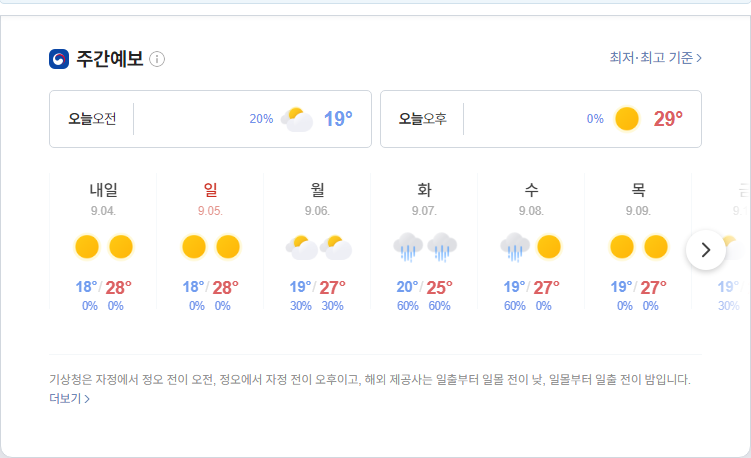
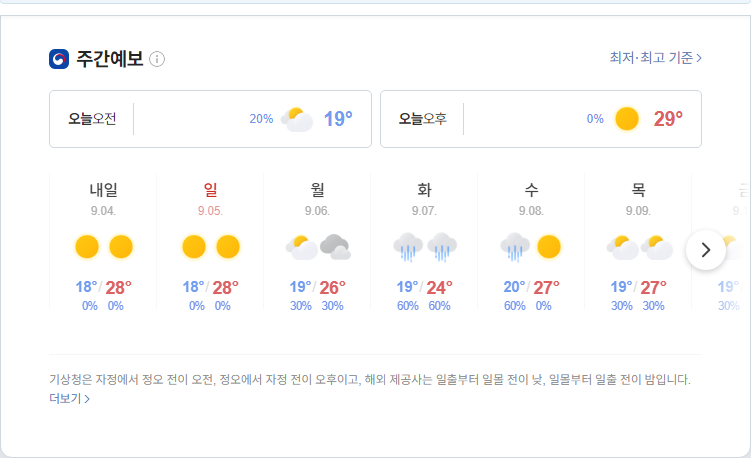
update result

diff --git a/README.md b/README.md
@@ -1,5 +1,5 @@
-##  2021-09-03 05:54:45   금요일 
-##### 날씨   -   어제보다 2° 낮아요맑음  
+##  2021-09-03 09:16:49   금요일 
+##### 날씨   -   어제와 같은 기온맑음  
 <center><img src="../img/naver_weather_week.png"></center>
 ----
 ----
@@ -23,40 +23,40 @@
 ##### 시장
 <table border="1" bordercolor="blue" align = "center" >
 <tr align = "right" > <td>Item</td><td>Price</td><td>Diff</td><td>Rate</td><td>Buy</td><td>Sell</td><td>...</td>  </tr>
-<tr align = "right" > <td>USD</td><td>1,159.0</td><td>-0.5</td><td><font size="3" color="blue">-0.04%</font></td><td><font size="3" color="black">1,110</font></td><td><font size="3" color="black">0</font></td><td>0</td>  </tr>
-<tr align = "right" > <td>WTI</td><td>68.59</td><td>0.09</td><td><font size="3" color="red">0.13%</font></td><td><font size="3" color="black">29.0</font></td><td><font size="3" color="black">0</font></td><td>0</td>  </tr>
-<tr align = "right" > <td>GOLD</td><td>1,813.0</td><td>-1.9</td><td><font size="3" color="blue">-0.1%</font></td><td><font size="3" color="black">0</font></td><td><font size="3" color="black">0</font></td><td>0</td>  </tr>
+<tr align = "right" > <td>USD</td><td>1,156.0</td><td>-2.2</td><td><font size="3" color="blue">-0.19%</font></td><td><font size="3" color="black">1,110</font></td><td><font size="3" color="black">0</font></td><td>0</td>  </tr>
+<tr align = "right" > <td>WTI</td><td>69.99</td><td>1.4</td><td><font size="3" color="red">2.04%</font></td><td><font size="3" color="black">29.0</font></td><td><font size="3" color="black">0</font></td><td>0</td>  </tr>
+<tr align = "right" > <td>GOLD</td><td>1,808.0</td><td>-4.4</td><td><font size="3" color="blue">-0.24%</font></td><td><font size="3" color="black">0</font></td><td><font size="3" color="black">0</font></td><td>0</td>  </tr>
 </table>
 ----
 ##### 주가
 <table border="1" bordercolor="blue" align = "center" >
 <tr align = "right" > <td>Item</td><td>Price</td><td>Diff</td><td>Rate</td><td>Purchased</td><td>Sell</td><td>Buy</td>  </tr>
-<tr align = "right" > <td>한국 전력</td><td>23,850</td><td>-200</td><td><font size="3" color="blue">-0.83%</font></td><td>25,720</td><td><font size="3" color="black">27,700</font></td><td><font size="3" color="black">20,700</font></td>  </tr>
-<tr align = "right" > <td>삼성엔지니어.</td><td>23,300</td><td>-450</td><td><font size="3" color="blue">-1.89%</font></td><td>18,935</td><td><font size="3" color="black">20,000</font></td><td><font size="3" color="black">8,000</font></td>  </tr>
-<tr align = "right" > <td>CJ CGV</td><td>31,350</td><td>200</td><td><font size="3" color="red">0.64%</font></td><td>34,895</td><td><font size="3" color="black">36,000</font></td><td><font size="3" color="black">0</font></td>  </tr>
-<tr align = "right" > <td>아모레퍼시픽</td><td>224,500</td><td>-3,000</td><td><font size="3" color="blue">-1.32%</font></td><td>235,350</td><td><font size="3" color="black">240,000</font></td><td><font size="3" color="black">130,000</font></td>  </tr>
-<tr align = "right" > <td>한화</td><td>35,750</td><td>900</td><td><font size="3" color="red">2.58%</font></td><td>25,550</td><td><font size="3" color="black">26,250</font></td><td><font size="3" color="black">26,250</font></td>  </tr>
-<tr align = "right" > <td>NAVER</td><td>442,500</td><td>-2,500</td><td><font size="3" color="blue">-0.56%</font></td><td>147,200</td><td><font size="3" color="black">386,000</font></td><td><font size="3" color="black">286,000</font></td>  </tr>
-<tr align = "right" > <td>LG 화학우</td><td>332,000</td><td>-1,500</td><td><font size="3" color="blue">-0.45%</font></td><td>202,490</td><td><font size="3" color="black">384,000</font></td><td><font size="3" color="orangered">384,000</font></td>  </tr>
-<tr align = "right" > <td>스튜디오드래.</td><td>86,500</td><td>-600</td><td><font size="3" color="blue">-0.69%</font></td><td>81,243</td><td><font size="3" color="black">85,200</font></td><td><font size="3" color="black">85,200</font></td>  </tr>
-<tr align = "right" > <td>QV미국IT</td><td>33,265</td><td>55</td><td><font size="3" color="red">0.17%</font></td><td>0</td><td><font size="3" color="black">30,000</font></td><td><font size="3" color="black">20,000</font></td>  </tr>
-<tr align = "right" > <td>삼성 전자우</td><td>70,300</td><td>-600</td><td><font size="3" color="blue">-0.85%</font></td><td>60,675</td><td><font size="3" color="black">76,000</font></td><td><font size="3" color="black">55,000</font></td>  </tr>
-<tr align = "right" > <td>LS</td><td>66,600</td><td>0</td><td><font size="3" color="black">0.0%</font></td><td>71,900</td><td><font size="3" color="black">82,000</font></td><td><font size="3" color="black">60,000</font></td>  </tr>
-<tr align = "right" > <td>한화에어로스.</td><td>51,700</td><td>1,300</td><td><font size="3" color="red">2.58%</font></td><td>25,700</td><td><font size="3" color="black">30,000</font></td><td><font size="3" color="black">24,000</font></td>  </tr>
-<tr align = "right" > <td>한화시스템.</td><td>19,350</td><td>100</td><td><font size="3" color="red">0.52%</font></td><td>16,875</td><td><font size="3" color="black">30,000</font></td><td><font size="3" color="black">14,000</font></td>  </tr>
-<tr align = "right" > <td>카카오</td><td>155,000</td><td>1,000</td><td><font size="3" color="red">0.65%</font></td><td>405,500</td><td><font size="3" color="black">440,000</font></td><td><font size="3" color="orangered">400,000</font></td>  </tr>
-<tr align = "right" > <td>호텔 신라</td><td>88,900</td><td>0</td><td><font size="3" color="black">0.0%</font></td><td>88,650</td><td><font size="3" color="black">100,000</font></td><td><font size="3" color="black">70,000</font></td>  </tr>
-<tr align = "right" > <td>S-Oil</td><td>91,700</td><td>-900</td><td><font size="3" color="blue">-0.97%</font></td><td>62,842</td><td><font size="3" color="black">100,000</font></td><td><font size="3" color="black">50,000</font></td>  </tr>
-<tr align = "right" > <td>LG전자</td><td>139,500</td><td>-1,500</td><td><font size="3" color="blue">-1.06%</font></td><td>82,022</td><td><font size="3" color="black">100,000</font></td><td><font size="3" color="black">60,000</font></td>  </tr>
+<tr align = "right" > <td>한국 전력</td><td>24,000</td><td>150</td><td><font size="3" color="red">0.63%</font></td><td>25,720</td><td><font size="3" color="black">27,700</font></td><td><font size="3" color="black">20,700</font></td>  </tr>
+<tr align = "right" > <td>삼성엔지니어.</td><td>23,450</td><td>150</td><td><font size="3" color="red">0.64%</font></td><td>18,935</td><td><font size="3" color="black">20,000</font></td><td><font size="3" color="black">8,000</font></td>  </tr>
+<tr align = "right" > <td>CJ CGV</td><td>31,600</td><td>250</td><td><font size="3" color="red">0.8%</font></td><td>34,895</td><td><font size="3" color="black">36,000</font></td><td><font size="3" color="black">0</font></td>  </tr>
+<tr align = "right" > <td>아모레퍼시픽</td><td>224,500</td><td>0</td><td><font size="3" color="black">0.0%</font></td><td>235,350</td><td><font size="3" color="black">240,000</font></td><td><font size="3" color="black">130,000</font></td>  </tr>
+<tr align = "right" > <td>한화</td><td>35,950</td><td>200</td><td><font size="3" color="red">0.56%</font></td><td>25,550</td><td><font size="3" color="black">26,250</font></td><td><font size="3" color="black">26,250</font></td>  </tr>
+<tr align = "right" > <td>NAVER</td><td>444,000</td><td>1,500</td><td><font size="3" color="red">0.34%</font></td><td>147,200</td><td><font size="3" color="black">386,000</font></td><td><font size="3" color="black">286,000</font></td>  </tr>
+<tr align = "right" > <td>LG 화학우</td><td>334,000</td><td>2,000</td><td><font size="3" color="red">0.6%</font></td><td>202,490</td><td><font size="3" color="black">384,000</font></td><td><font size="3" color="orangered">384,000</font></td>  </tr>
+<tr align = "right" > <td>스튜디오드래.</td><td>86,600</td><td>100</td><td><font size="3" color="red">0.12%</font></td><td>81,243</td><td><font size="3" color="black">85,200</font></td><td><font size="3" color="black">85,200</font></td>  </tr>
+<tr align = "right" > <td>QV미국IT</td><td>33,045</td><td>-220</td><td><font size="3" color="blue">-0.66%</font></td><td>0</td><td><font size="3" color="black">30,000</font></td><td><font size="3" color="black">20,000</font></td>  </tr>
+<tr align = "right" > <td>삼성 전자우</td><td>70,800</td><td>500</td><td><font size="3" color="red">0.71%</font></td><td>60,675</td><td><font size="3" color="black">76,000</font></td><td><font size="3" color="black">55,000</font></td>  </tr>
+<tr align = "right" > <td>LS</td><td>67,000</td><td>400</td><td><font size="3" color="red">0.6%</font></td><td>71,900</td><td><font size="3" color="black">82,000</font></td><td><font size="3" color="black">60,000</font></td>  </tr>
+<tr align = "right" > <td>한화에어로스.</td><td>51,700</td><td>0</td><td><font size="3" color="black">0.0%</font></td><td>25,700</td><td><font size="3" color="black">30,000</font></td><td><font size="3" color="black">24,000</font></td>  </tr>
+<tr align = "right" > <td>한화시스템.</td><td>19,350</td><td>0</td><td><font size="3" color="black">0.0%</font></td><td>16,875</td><td><font size="3" color="black">30,000</font></td><td><font size="3" color="black">14,000</font></td>  </tr>
+<tr align = "right" > <td>카카오</td><td>156,000</td><td>1,000</td><td><font size="3" color="red">0.65%</font></td><td>405,500</td><td><font size="3" color="black">440,000</font></td><td><font size="3" color="orangered">400,000</font></td>  </tr>
+<tr align = "right" > <td>호텔 신라</td><td>90,200</td><td>1,300</td><td><font size="3" color="red">1.46%</font></td><td>88,650</td><td><font size="3" color="black">100,000</font></td><td><font size="3" color="black">70,000</font></td>  </tr>
+<tr align = "right" > <td>S-Oil</td><td>92,600</td><td>900</td><td><font size="3" color="red">0.98%</font></td><td>62,842</td><td><font size="3" color="black">100,000</font></td><td><font size="3" color="black">50,000</font></td>  </tr>
+<tr align = "right" > <td>LG전자</td><td>144,500</td><td>5,000</td><td><font size="3" color="red">3.58%</font></td><td>82,022</td><td><font size="3" color="black">100,000</font></td><td><font size="3" color="black">60,000</font></td>  </tr>
 <tr align = "right" > <td>KT&G</td><td>81,800</td><td>0</td><td><font size="3" color="black">0.0%</font></td><td>79,700</td><td><font size="3" color="black">100,000</font></td><td><font size="3" color="black">70,000</font></td>  </tr>
-<tr align = "right" > <td>지역난방공사</td><td>40,500</td><td>-50</td><td><font size="3" color="blue">-0.12%</font></td><td>43,590</td><td><font size="3" color="black">60,000</font></td><td><font size="3" color="black">30,000</font></td>  </tr>
+<tr align = "right" > <td>지역난방공사</td><td>40,400</td><td>-100</td><td><font size="3" color="blue">-0.25%</font></td><td>43,590</td><td><font size="3" color="black">60,000</font></td><td><font size="3" color="black">30,000</font></td>  </tr>
 <tr align = "right" > <td>맥쿼리인프라</td><td>12,550</td><td>0</td><td><font size="3" color="black">0.0%</font></td><td>12,577</td><td><font size="3" color="black">30,000</font></td><td><font size="3" color="black">10,000</font></td>  </tr>
-<tr align = "right" > <td>KOEDX은행</td><td>7,450</td><td>-35</td><td><font size="3" color="blue">-0.47%</font></td><td>7,578</td><td><font size="3" color="black">8,825</font></td><td><font size="3" color="black">6,225</font></td>  </tr>
-<tr align = "right" > <td>글로벌럭셔리</td><td>17,900</td><td>145</td><td><font size="3" color="red">0.82%</font></td><td>16,302</td><td><font size="3" color="black">20,000</font></td><td><font size="3" color="black">10,000</font></td>  </tr>
-<tr align = "right" > <td>TIRGER200건설</td><td>3,295</td><td>-45</td><td><font size="3" color="blue">-1.35%</font></td><td>3,440</td><td><font size="3" color="black">4,000</font></td><td><font size="3" color="black">3,000</font></td>  </tr>
-<tr align = "right" > <td>KODEXK미래차</td><td>10,420</td><td>-160</td><td><font size="3" color="blue">-1.51%</font></td><td>10,955</td><td><font size="3" color="black">20,000</font></td><td><font size="3" color="black">10,000</font></td>  </tr>
-<tr align = "right" > <td>TIGER글로벌BBIG</td><td>12,045</td><td>15</td><td><font size="3" color="red">0.12%</font></td><td>11,020</td><td><font size="3" color="black">20,000</font></td><td><font size="3" color="black">10,000</font></td>  </tr>
-<tr align = "right" > <td>TIGER퓨처모빌리티</td><td>10,795</td><td>-225</td><td><font size="3" color="blue">-2.04%</font></td><td>10,695</td><td><font size="3" color="black">20,000</font></td><td><font size="3" color="black">10,000</font></td>  </tr>
-<tr align = "right" > <td>한국금융지주</td><td>93,400</td><td>-1,500</td><td><font size="3" color="blue">-1.58%</font></td><td>0</td><td><font size="3" color="black">82,000</font></td><td><font size="3" color="black">60,000</font></td>  </tr>
+<tr align = "right" > <td>KOEDX은행</td><td>7,455</td><td>5</td><td><font size="3" color="red">0.07%</font></td><td>7,578</td><td><font size="3" color="black">8,825</font></td><td><font size="3" color="black">6,225</font></td>  </tr>
+<tr align = "right" > <td>글로벌럭셔리</td><td>17,950</td><td>50</td><td><font size="3" color="red">0.28%</font></td><td>16,302</td><td><font size="3" color="black">20,000</font></td><td><font size="3" color="black">10,000</font></td>  </tr>
+<tr align = "right" > <td>TIRGER200건설</td><td>3,290</td><td>-5</td><td><font size="3" color="blue">-0.15%</font></td><td>3,440</td><td><font size="3" color="black">4,000</font></td><td><font size="3" color="black">3,000</font></td>  </tr>
+<tr align = "right" > <td>KODEXK미래차</td><td>10,495</td><td>75</td><td><font size="3" color="red">0.72%</font></td><td>10,955</td><td><font size="3" color="black">20,000</font></td><td><font size="3" color="black">10,000</font></td>  </tr>
+<tr align = "right" > <td>TIGER글로벌BBIG</td><td>12,040</td><td>-5</td><td><font size="3" color="blue">-0.04%</font></td><td>11,020</td><td><font size="3" color="black">20,000</font></td><td><font size="3" color="black">10,000</font></td>  </tr>
+<tr align = "right" > <td>TIGER퓨처모빌리티</td><td>10,885</td><td>90</td><td><font size="3" color="red">0.83%</font></td><td>10,695</td><td><font size="3" color="black">20,000</font></td><td><font size="3" color="black">10,000</font></td>  </tr>
+<tr align = "right" > <td>한국금융지주</td><td>93,600</td><td>200</td><td><font size="3" color="red">0.21%</font></td><td>0</td><td><font size="3" color="black">82,000</font></td><td><font size="3" color="black">60,000</font></td>  </tr>
 </table>
 ----
